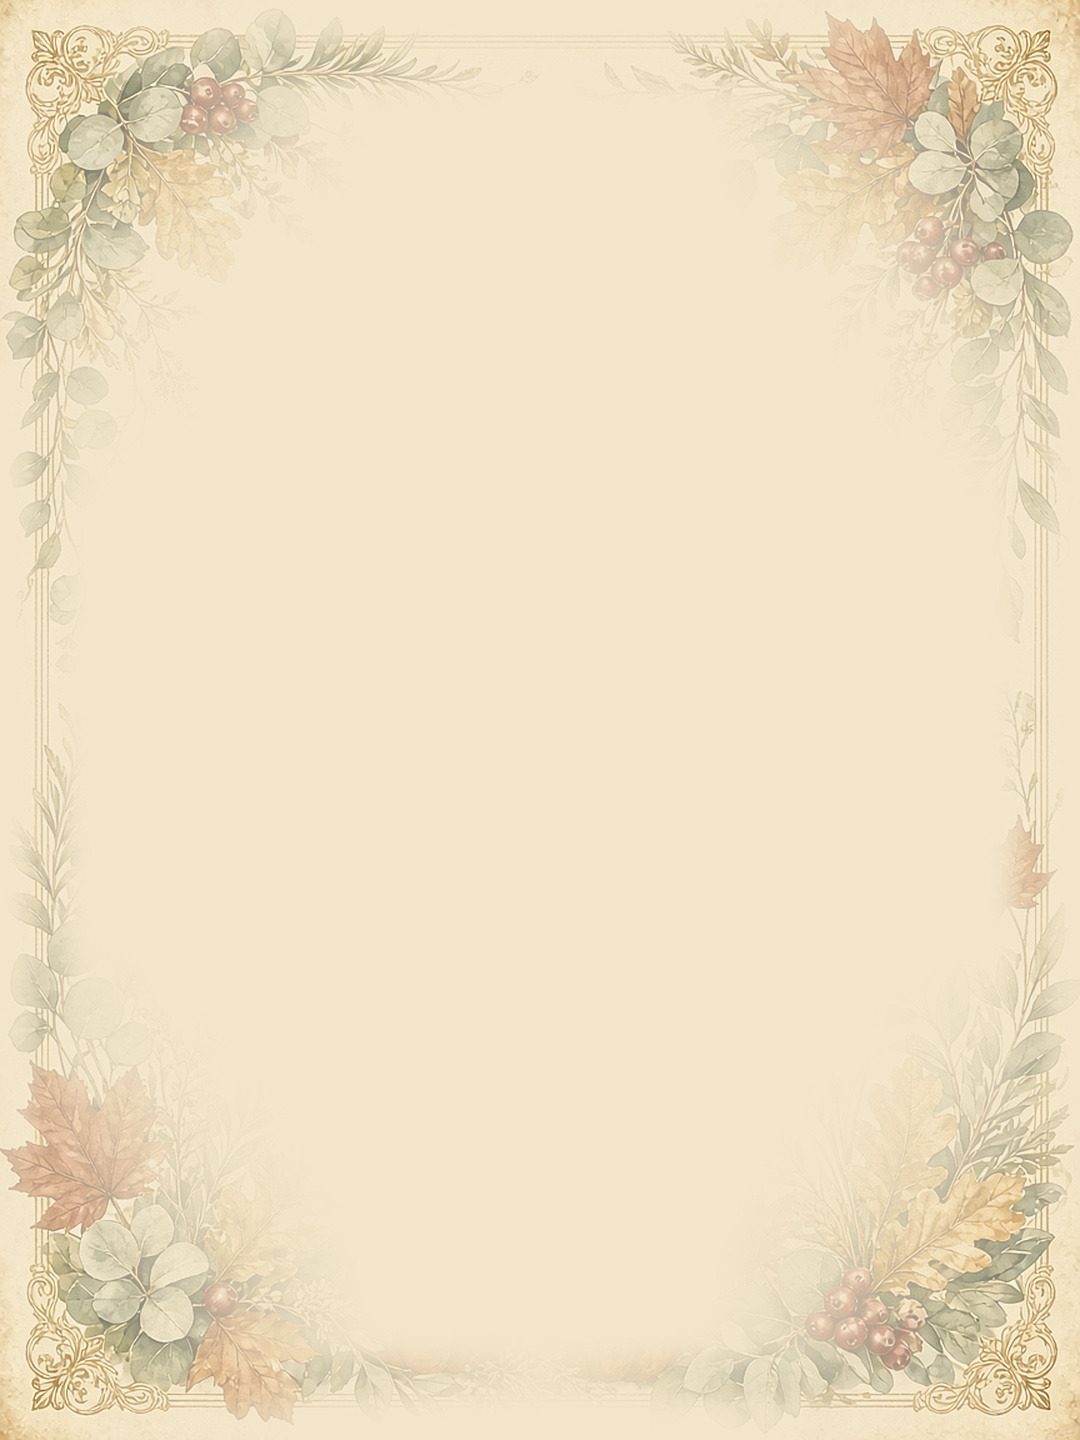
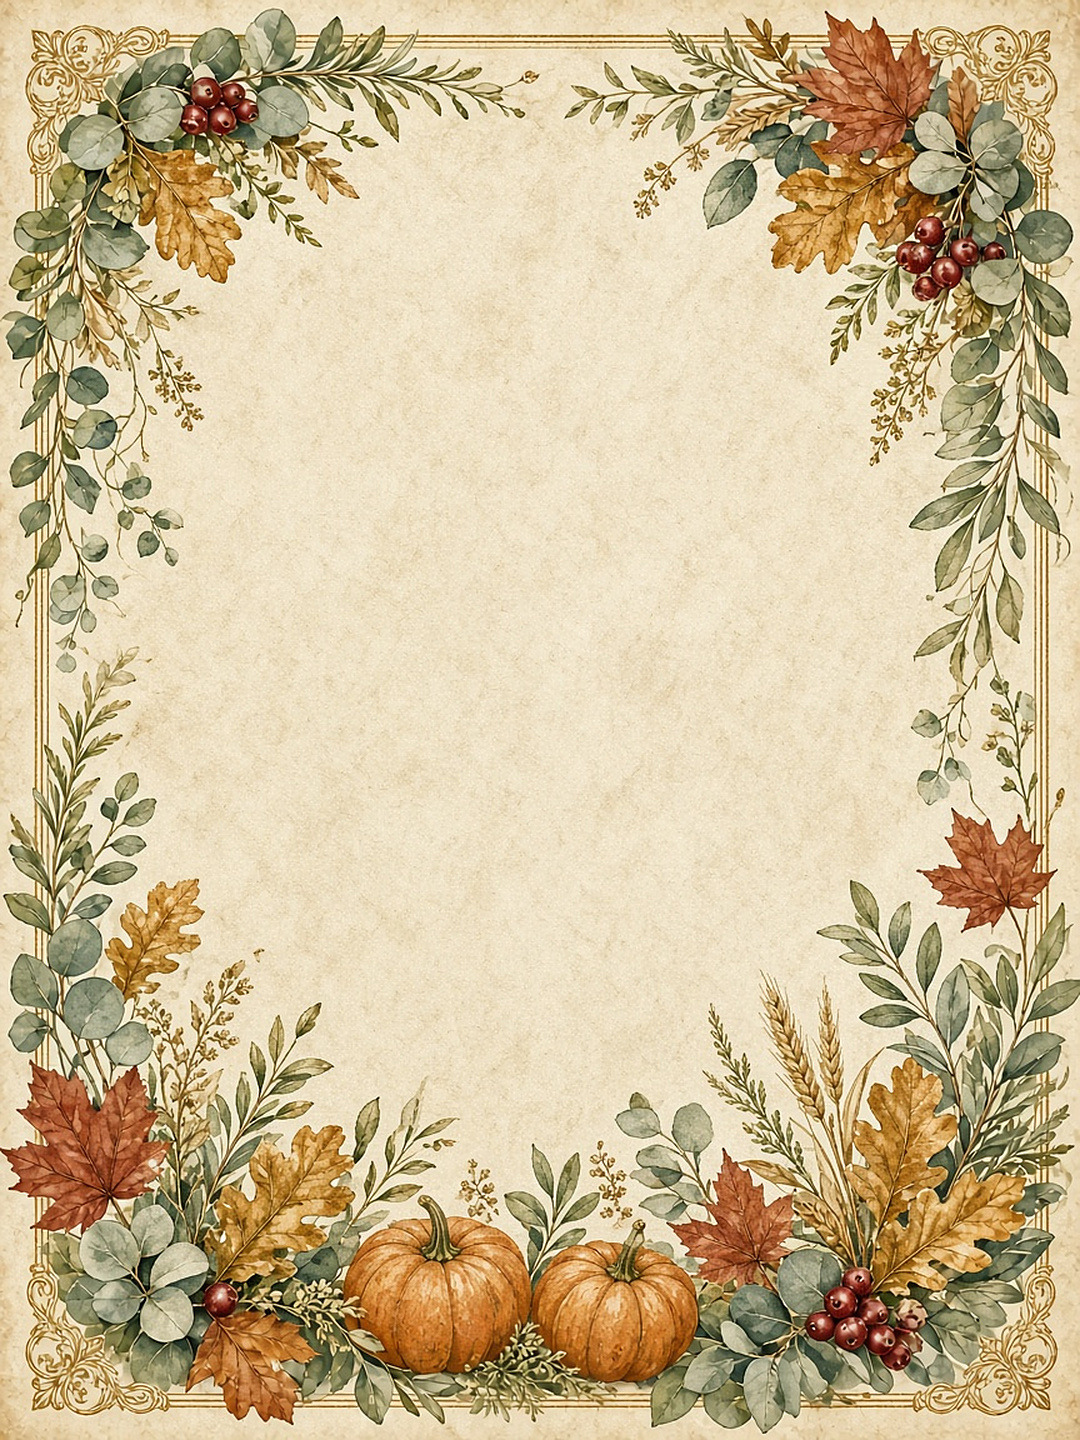
site: fuller parchment menu with larger gold type
Use the watercolor art at full strength, put the drinks on a cream panel for phone readability, and set title, labels, and rules in rich gold.

diff --git a/_system/scripts/site_render.py b/_system/scripts/site_render.py
@@ -844,53 +844,54 @@ THANKS_CSS = """@font-face{font-family:Display;src:url(/thanksgiving-drinks/font
 @font-face{font-family:Text;src:url(/thanksgiving-drinks/fonts/libre-caslon-text-400-latin.woff2) format("woff2");font-weight:400;font-style:normal;font-display:swap}
 @font-face{font-family:Text;src:url(/thanksgiving-drinks/fonts/libre-caslon-text-400-italic-latin.woff2) format("woff2");font-weight:400;font-style:italic;font-display:swap}
 @font-face{font-family:Text;src:url(/thanksgiving-drinks/fonts/libre-caslon-text-700-latin.woff2) format("woff2");font-weight:700;font-style:normal;font-display:swap}
-.thanks{margin:0;min-height:100vh;font:17px/1.45 Text,"Libre Caslon Text","Times New Roman",Georgia,serif;color:#2A241A;background:#EEE1C6}
-.thanks .top{max-width:680px;margin:0 auto;padding:14px 18px 0;display:flex;justify-content:space-between;align-items:baseline;gap:16px}
-.thanks nav.tnav{color:#6A734F;font-size:14px;font-family:Text,serif}
-.thanks nav.tnav a{color:#6A734F;text-decoration:underline;text-decoration-style:dotted;text-underline-offset:3px}
-.thanks .date{font-family:Text,serif;font-size:11px;font-weight:700;letter-spacing:.16em;text-transform:uppercase;color:#6A734F;opacity:.8;white-space:nowrap}
-.thanks .card{position:relative;isolation:isolate;max-width:680px;margin:0 auto;padding:52px 44px 56px;background-color:#EEE1C6;text-align:center}
+.thanks{margin:0;min-height:100vh;font:18px/1.3 Text,"Libre Caslon Text","Times New Roman",Georgia,serif;color:#2A241A;background:#EEE1C6}
+.thanks .top{max-width:720px;margin:0 auto;padding:12px 16px 0;display:flex;justify-content:space-between;align-items:baseline;gap:16px}
+.thanks nav.tnav{color:#9A7424;font-size:14px;font-family:Text,serif}
+.thanks nav.tnav a{color:#9A7424;text-decoration:underline;text-decoration-style:dotted;text-underline-offset:3px}
+.thanks .date{font-family:Text,serif;font-size:12px;font-weight:700;letter-spacing:.14em;text-transform:uppercase;color:#9A7424;opacity:.9;white-space:nowrap}
+.thanks .card{position:relative;isolation:isolate;max-width:720px;margin:0 auto;padding:10% 8% 22%;background-color:#EEE1C6;text-align:center}
 .thanks .card:before,.thanks .card:after{content:"";position:absolute;left:0;right:0;z-index:-1;pointer-events:none}
 .thanks .card:before{top:0;height:100%;background:url(/thanksgiving-drinks/bg.jpg) top center / 100% auto no-repeat}
-.thanks .card:after{bottom:0;height:30%;background:url(/thanksgiving-drinks/bg.jpg) bottom center / 100% auto no-repeat;-webkit-mask-image:linear-gradient(to top,#000 58%,transparent);mask-image:linear-gradient(to top,#000 58%,transparent)}
-.thanks .titles{text-align:center;padding:8px 8px 0}
-.thanks h1{font-family:Display,"Bodoni Moda",Georgia,serif;font-weight:500;font-optical-sizing:auto;font-size:clamp(48px,12vw,78px);line-height:.92;text-align:center;color:#2A241A;margin:0;letter-spacing:-0.012em}
-.thanks .sub{font-family:Display,"Bodoni Moda",Georgia,serif;font-style:italic;font-weight:500;font-optical-sizing:auto;font-size:clamp(22px,5.5vw,30px);line-height:1;text-align:center;color:#6A734F;margin:12px 0 0}
-.thanks .rule{width:140px;height:2px;border:0;margin:22px auto 8px;background:linear-gradient(90deg,transparent,#C4A35A 12%,#C4A35A 88%,transparent);opacity:.95}
-.thanks .body{padding:16px 4px 0;display:flex;flex-direction:column;gap:28px}
+.thanks .card:after{bottom:0;height:28%;background:url(/thanksgiving-drinks/bg.jpg) bottom center / 100% auto no-repeat;-webkit-mask-image:linear-gradient(to top,#000 70%,transparent);mask-image:linear-gradient(to top,#000 70%,transparent)}
+.thanks .panel{position:relative;background:#EEE1C6;border:1.5px solid #B08A2E;padding:18px 18px 16px;text-align:center}
+.thanks .titles{text-align:center;padding:0}
+.thanks h1{font-family:Display,"Bodoni Moda",Georgia,serif;font-weight:700;font-optical-sizing:auto;font-size:clamp(56px,14vw,120px);line-height:.88;text-align:center;color:#9A7424;margin:0;letter-spacing:-0.01em;-webkit-text-stroke:.4px #8A6820}
+.thanks .sub{font-family:Display,"Bodoni Moda",Georgia,serif;font-style:italic;font-weight:600;font-optical-sizing:auto;font-size:clamp(26px,5.5vw,42px);line-height:1;text-align:center;color:#9A7424;margin:4px 0 0}
+.thanks .rule{width:160px;height:2px;border:0;margin:10px auto 8px;background:#B08A2E}
+.thanks .body{padding:0;display:flex;flex-direction:column;gap:10px}
 .thanks section{margin:0}
-.thanks .lbl{font-family:Text,serif;font-size:12px;font-weight:700;letter-spacing:.24em;text-transform:uppercase;color:#6A734F;margin:0 0 8px}
-.thanks .item{margin:0 0 10px}
-.thanks .name{font-family:Display,"Bodoni Moda",Georgia,serif;font-weight:600;font-optical-sizing:auto;font-size:clamp(24px,6vw,30px);line-height:1.12;color:#2A241A;margin:0;-webkit-text-stroke:.28px #2A241A}
-.thanks a.name{color:#2A241A;text-decoration:underline;text-decoration-style:dotted;text-decoration-color:#6A734F;text-underline-offset:5px}
-.thanks a.name:hover,.thanks a.name:focus-visible{color:#6A734F}
-.thanks .note{font-family:Text,serif;font-size:15px;line-height:1.3;color:#5C5346;margin:2px 0 0}
-.thanks .wines .item{margin:0 0 3px}
-.thanks .wines .name{font-size:clamp(22px,5.5vw,28px)}
-.thanks .welcome{font-family:Text,serif;font-size:16px;font-style:italic;color:#6A734F;margin:10px 0 0}
-.thanks .split{display:grid;grid-template-columns:1fr 1fr;gap:8px 24px;margin:0}
-.thanks .foot{margin:28px 0 0;font-family:Text,serif;font-size:11px;font-weight:700;letter-spacing:.18em;text-transform:uppercase;color:#6A734F;opacity:.85}
-.thanks button.name{background:none;border:0;padding:0;margin:0 auto;width:auto;max-width:100%;display:block;text-align:center;cursor:pointer;color:#2A241A;text-decoration:underline;text-decoration-style:dotted;text-decoration-color:#6A734F;text-underline-offset:5px;font:inherit;letter-spacing:inherit}
-.thanks button.name:hover,.thanks button.name:focus-visible{color:#6A734F;outline:0}
+.thanks .lbl{font-family:Text,serif;font-size:clamp(15px,3.4vw,27px);font-weight:700;letter-spacing:.16em;text-transform:uppercase;color:#9A7424;margin:0 0 2px}
+.thanks .item{margin:0 0 2px}
+.thanks .name{font-family:Display,"Bodoni Moda",Georgia,serif;font-weight:700;font-optical-sizing:auto;font-size:clamp(30px,6.8vw,52px);line-height:1.05;color:#2A241A;margin:0;-webkit-text-stroke:.4px #B08A2E}
+.thanks a.name{color:#2A241A;text-decoration:underline;text-decoration-style:dotted;text-decoration-color:#9A7424;text-underline-offset:5px}
+.thanks a.name:hover,.thanks a.name:focus-visible{color:#9A7424}
+.thanks .note{font-family:Text,serif;font-size:clamp(17px,3.6vw,28px);line-height:1.2;color:#3D3428;margin:0}
+.thanks .wines .item{margin:0}
+.thanks .wines .name{font-size:clamp(30px,6.8vw,52px)}
+.thanks .welcome{font-family:Text,serif;font-size:clamp(16px,3.2vw,26px);font-style:italic;color:#3D3428;margin:4px 0 0}
+.thanks .split{display:grid;grid-template-columns:1fr 1fr;gap:4px 16px;margin:0}
+.thanks .foot{margin:8px 0 0;font-family:Text,serif;font-size:12px;font-weight:700;letter-spacing:.16em;text-transform:uppercase;color:#9A7424}
+.thanks button.name{background:none;border:0;padding:0;margin:0 auto;width:auto;max-width:100%;display:block;text-align:center;cursor:pointer;color:#2A241A;text-decoration:underline;text-decoration-style:dotted;text-decoration-color:#9A7424;text-underline-offset:5px;font:inherit;letter-spacing:inherit}
+.thanks button.name:hover,.thanks button.name:focus-visible{color:#9A7424;outline:0}
 .thanks body.wine-open,.wine-open{overflow:hidden}
 .wmodal{position:fixed;inset:0;z-index:40;display:flex;align-items:center;justify-content:center;padding:18px}
 .wmodal[hidden]{display:none}
 .wmodal-backdrop{position:absolute;inset:0;background:rgba(42,36,26,.45)}
-.wmodal-card{position:relative;z-index:1;width:min(520px,100%);max-height:min(86vh,720px);overflow:auto;background:#EEE1C6;color:#2A241A;border:1px solid rgba(196,163,90,.7);box-shadow:0 18px 50px rgba(42,36,26,.2);padding:22px 22px 26px;-webkit-overflow-scrolling:touch}
+.wmodal-card{position:relative;z-index:1;width:min(520px,100%);max-height:min(86vh,720px);overflow:auto;background:#EEE1C6;color:#2A241A;border:1.5px solid #B08A2E;box-shadow:0 18px 50px rgba(42,36,26,.2);padding:22px 22px 26px;-webkit-overflow-scrolling:touch}
 .wmodal-head{display:flex;align-items:flex-start;justify-content:space-between;gap:12px;margin:0 0 6px}
-.wmodal-title{font-family:Display,"Bodoni Moda",Georgia,serif;font-weight:600;font-size:clamp(28px,7vw,36px);line-height:1.1;color:#2A241A;margin:0;flex:1}
-.wmodal-close{flex:none;background:transparent;border:1px solid rgba(106,115,79,.7);color:#6A734F;font:700 12px/1 Text,"Libre Caslon Text",serif;letter-spacing:.12em;text-transform:uppercase;padding:8px 12px;cursor:pointer}
-.wmodal-close:hover,.wmodal-close:focus-visible{background:#6A734F;color:#EEE1C6;outline:0}
-.wmodal-producer{margin:0 0 16px;font-style:italic;color:#6A734F;font-size:16px}
-.wmodal-sec{margin:16px 0 0;padding:14px 0 0;border-top:1px solid rgba(196,163,90,.35)}
-.wmodal-lbl{margin:0 0 6px;font:700 11px/1.2 Text,"Libre Caslon Text",serif;letter-spacing:.18em;text-transform:uppercase;color:#6A734F}
-.wmodal-sec p{margin:0;font-size:16px;line-height:1.45;color:#2A241A}
+.wmodal-title{font-family:Display,"Bodoni Moda",Georgia,serif;font-weight:700;font-size:clamp(28px,7vw,36px);line-height:1.1;color:#9A7424;margin:0;flex:1}
+.wmodal-close{flex:none;background:transparent;border:1px solid #9A7424;color:#9A7424;font:700 12px/1 Text,"Libre Caslon Text",serif;letter-spacing:.12em;text-transform:uppercase;padding:8px 12px;cursor:pointer}
+.wmodal-close:hover,.wmodal-close:focus-visible{background:#9A7424;color:#EEE1C6;outline:0}
+.wmodal-producer{margin:0 0 16px;font-style:italic;color:#3D3428;font-size:16px}
+.wmodal-sec{margin:16px 0 0;padding:14px 0 0;border-top:1px solid rgba(176,138,46,.45)}
+.wmodal-lbl{margin:0 0 6px;font:700 12px/1.2 Text,"Libre Caslon Text",serif;letter-spacing:.16em;text-transform:uppercase;color:#9A7424}
+.wmodal-sec p{margin:0;font-size:17px;line-height:1.45;color:#2A241A}
 .wmodal-stats{margin:0;display:grid;grid-template-columns:repeat(2,1fr);gap:8px 16px}
 .wmodal-stat{margin:0}
-.wmodal-stat dt{font-size:11px;letter-spacing:.12em;text-transform:uppercase;color:#6A734F}
-.wmodal-stat dd{margin:2px 0 0;font-size:16px;color:#2A241A}
-@media(max-width:720px){.thanks .card{max-width:none;margin:0;padding:48px 10vw 64px;min-height:100vh}.thanks .top{padding:12px 16px 0}.thanks .split{gap:8px 16px}.wmodal{padding:10px;align-items:flex-end}.wmodal-card{max-height:90vh;padding:18px 16px 22px}}
-@media(min-width:800px){.thanks{background:#E4D6B4;padding:0 16px 48px}.thanks .card{margin-top:8px;box-shadow:0 16px 48px rgba(80,60,30,.14)}.thanks .top{padding-top:22px}}"""
+.wmodal-stat dt{font-size:12px;letter-spacing:.12em;text-transform:uppercase;color:#9A7424}
+.wmodal-stat dd{margin:2px 0 0;font-size:17px;color:#2A241A}
+@media(max-width:720px){.thanks .card{max-width:none;margin:0;padding:9vw 6vw 24vw;min-height:100vh}.thanks .top{padding:10px 14px 0}.thanks .panel{padding:16px 12px 14px}.thanks .split{gap:4px 10px}.wmodal{padding:10px;align-items:flex-end}.wmodal-card{max-height:90vh;padding:18px 16px 22px}}
+@media(min-width:800px){.thanks{background:#E4D6B4;padding:0 16px 48px}.thanks .card{margin-top:8px;max-width:760px;box-shadow:0 16px 48px rgba(80,60,30,.14)}.thanks .top{max-width:760px;padding-top:22px}}"""
 
 def thanksgiving_drinks_page(out, src=None):
     """One-off Thanksgiving drinks menu. Not linked from the home header."""
@@ -933,6 +934,7 @@ def thanksgiving_drinks_page(out, src=None):
 <div class=top><nav class=tnav><a href="/">← Crews &amp; Anna's Kitchen</a> · <a href="/cocktails/">Cocktails</a></nav>
 <p class=date>Nov 26, 2026</p></div>
 <article class=card>
+<div class=panel>
 <div class=titles>
 <h1>Thanksgiving</h1>
 <p class=sub>Beverage Menu</p>
@@ -980,6 +982,7 @@ def thanksgiving_drinks_page(out, src=None):
 </div>
 </div>
 <p class=foot>Crews &amp; Anna's Kitchen</p>
+</div>
 </article>
 <div id=wine-modal class=wmodal hidden>
 <div class=wmodal-backdrop data-close></div>
